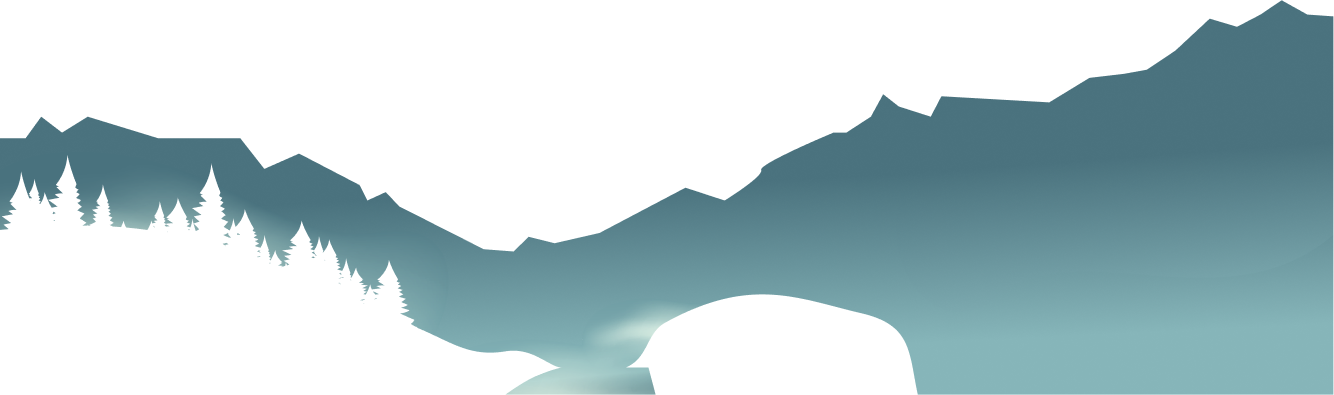
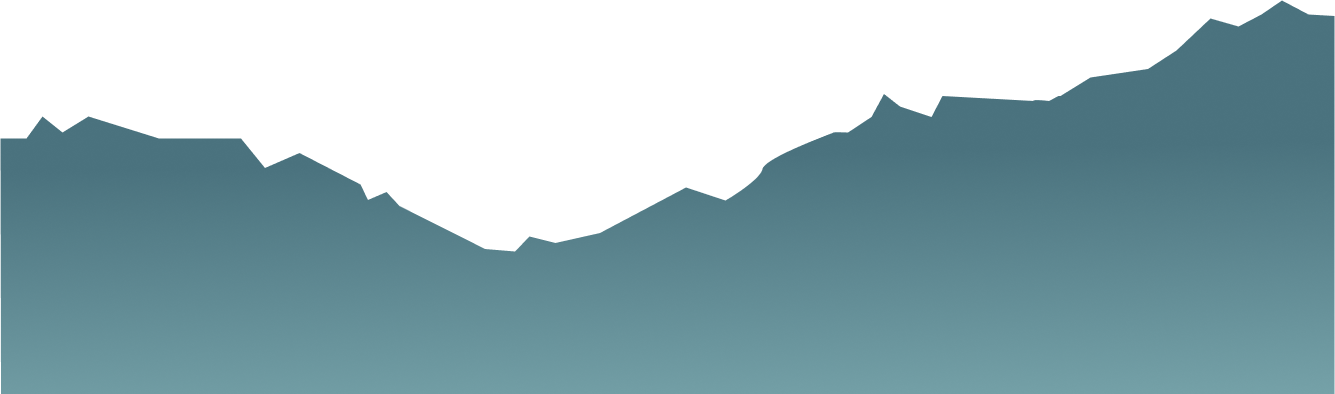
Change to Paralax P3 (Adjust Herobanner)

diff --git a/src/components/Herobanner.jsx b/src/components/Herobanner.jsx
@@ -4,16 +4,21 @@ import { Parallax, ParallaxLayer } from "@react-spring/parallax";
 const Herobanner = () => {
   return (
     <Parallax pages={2}>
-      <ParallaxLayer speed={0.35} style={{zIndex: -1}}>
+      <ParallaxLayer speed={0.35} style={{zIndex: -2}}>
         <img
         className="absolute bottom-0 w-screen"
         src="/assets/images/ForeMount.png" alt="" />
+      </ParallaxLayer>
+      <ParallaxLayer speed={0.38} style={{zIndex: -1}}>
+        <img
+        className="absolute bottom-0 w-screen"
+        src="/assets/images/BackTrees.png" alt="" />
       </ParallaxLayer>
       <ParallaxLayer speed={0.4}
       >
         <img
         className="absolute bottom-0 w-screen" 
-        src="/assets/images/Trees.png" alt="" />
+        src="/assets/images/ForeTrees.png" alt="" />
       </ParallaxLayer>
       <div className="w-screen h-80 md:h-96 z-1 relative flex flex-col justify-center items-center">
         <h1 className="text-6xl md:text-8xl text-cyan-900 dark:text-cyan-300 font-bold tracking-wider animate-fade-in">
